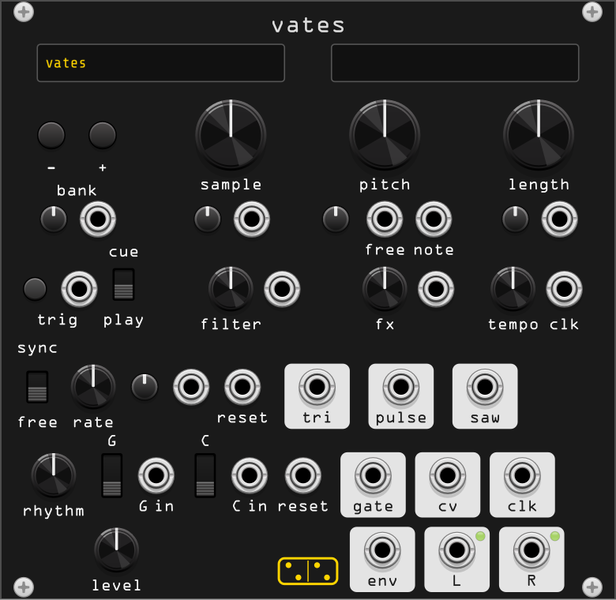
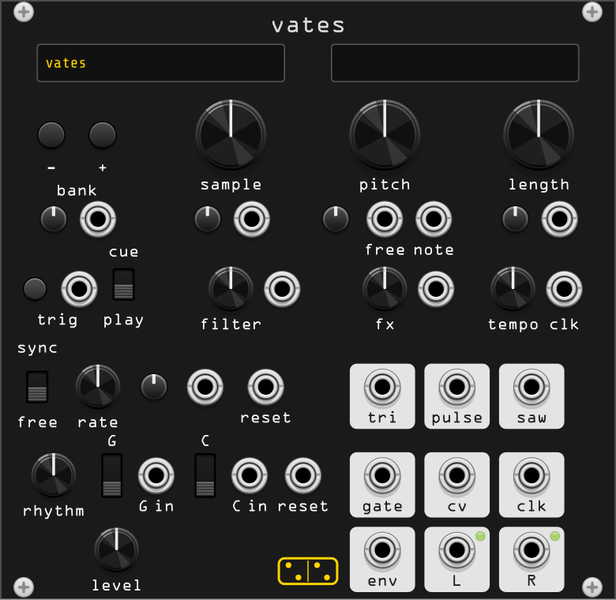
style(vates): the three output triplets share one grid
tri/pulse/saw, gate/cv/clk and env/L/R now sit on the same three columns, so
the badges read as one block of outputs on the right rather than three rows
that happen to hold jacks. The LFO controls spread to meet them, matching the
pattern row above.

Changed region(s): [[0.1234, 0.6, 0.9253, 0.72], [0.5244, 0.75, 0.9253, 0.87], [0.1234, 0.69, 0.1851, 0.72]]

diff --git a/src/vates.cpp b/src/vates.cpp
@@ -1267,14 +1267,14 @@ struct VatesWidget : ModuleWidget {
 // @elem LABEL_ENV label 0.0 label "env" 0.0 82.00 125.50
 // @elem LABEL_SYNC label 0.0 label "sync" 0.0 8.00 75.50
 // @elem LABEL_FREERUN label 0.0 label "free" 0.0 8.00 91.50
-// @elem LABEL_RATE label 0.0 label "rate" 0.0 20.00 91.50
-// @elem LABEL_LFO_RESET label 0.0 label "reset" 0.0 52.00 90.50
-// @elem BOX_SAW panel_box 7.0 box "" 0.0 104.00 85.00
-// @elem BOX_TRI panel_box 7.0 box "" 0.0 68.00 85.00
-// @elem LABEL_TRI label 0.0 label "tri" 0.0 68.00 90.50
-// @elem BOX_PULSE panel_box 7.0 box "" 0.0 86.00 85.00
-// @elem LABEL_PULSE label 0.0 label "pulse" 0.0 86.00 90.50
-// @elem LABEL_SAW label 0.0 label "saw" 0.0 104.00 90.50
+// @elem LABEL_RATE label 0.0 label "rate" 0.0 21.00 91.50
+// @elem LABEL_LFO_RESET label 0.0 label "reset" 0.0 57.00 90.50
+// @elem BOX_SAW panel_box 7.0 box "" 0.0 114.00 85.00
+// @elem BOX_TRI panel_box 7.0 box "" 0.0 82.00 85.00
+// @elem LABEL_TRI label 0.0 label "tri" 0.0 82.00 90.50
+// @elem BOX_PULSE panel_box 7.0 box "" 0.0 98.00 85.00
+// @elem LABEL_PULSE label 0.0 label "pulse" 0.0 98.00 90.50
+// @elem LABEL_SAW label 0.0 label "saw" 0.0 114.00 90.50
 // @elem LABEL_TEMPO label 0.0 label "tempo" 0.0 110.00 70.50
 // @elem LABEL_CLK label 0.0 label "clk" 0.0 121.00 70.50
 // @elem LABEL_GSW label 0.0 label "G" 0.0 24.00 95.50
@@ -1283,12 +1283,12 @@ struct VatesWidget : ModuleWidget {
 // @elem LABEL_G label 0.0 label "G in" 0.0 33.50 109.50
 // @elem LABEL_C label 0.0 label "C in" 0.0 53.50 109.50
 // @elem LABEL_PAT_RESET label 0.0 label "reset" 0.0 65.00 109.50
-// @elem BOX_GATE panel_box 7.0 box "" 0.0 80.00 104.00
-// @elem LABEL_GATE label 0.0 label "gate" 0.0 80.00 109.50
-// @elem BOX_CV panel_box 7.0 box "" 0.0 96.00 104.00
-// @elem LABEL_CV label 0.0 label "cv" 0.0 96.00 109.50
-// @elem BOX_CLK_OUT panel_box 7.0 box "" 0.0 112.00 104.00
-// @elem LABEL_CLK_OUT label 0.0 label "clk" 0.0 112.00 109.50
+// @elem BOX_GATE panel_box 7.0 box "" 0.0 82.00 104.00
+// @elem LABEL_GATE label 0.0 label "gate" 0.0 82.00 109.50
+// @elem BOX_CV panel_box 7.0 box "" 0.0 98.00 104.00
+// @elem LABEL_CV label 0.0 label "cv" 0.0 98.00 109.50
+// @elem BOX_CLK_OUT panel_box 7.0 box "" 0.0 114.00 104.00
+// @elem LABEL_CLK_OUT label 0.0 label "clk" 0.0 114.00 109.50
 // @elem LABEL_LEVEL label 0.0 label "level" 0.0 25.00 126.50
 // @elem BOX_LEFT panel_box 7.0 box "" 0.0 98.00 120.00
 // @elem LABEL_LEFT label 0.0 label "L" 0.0 98.00 125.50
@@ -1323,13 +1323,13 @@ struct VatesWidget : ModuleWidget {
         addInput(createInputCentered<PJ301MPort>(mm2px(Vec(93.50f, 62.00f)), module, Vates::FX_INPUT));
         addOutput(createOutputCentered<PJ301MPort>(mm2px(Vec(82.00f, 118.00f)), module, Vates::ENV_OUTPUT));
         addParam(createParamCentered<CKSS>(mm2px(Vec(8.00f, 83.00f)), module, Vates::SYNC_PARAM));
-        addParam(createParamCentered<RoundBlackKnob>(mm2px(Vec(20.00f, 83.00f)), module, Vates::RATE_PARAM));
-        addParam(createParamCentered<Trimpot>(mm2px(Vec(31.00f, 83.00f)), module, Vates::LFO_ATT_PARAM));
-        addInput(createInputCentered<PJ301MPort>(mm2px(Vec(41.00f, 83.00f)), module, Vates::LFO_INPUT));
-        addInput(createInputCentered<PJ301MPort>(mm2px(Vec(52.00f, 83.00f)), module, Vates::LFO_RESET_INPUT));
-        addOutput(createOutputCentered<PJ301MPort>(mm2px(Vec(68.00f, 83.00f)), module, Vates::TRI_OUTPUT));
-        addOutput(createOutputCentered<PJ301MPort>(mm2px(Vec(86.00f, 83.00f)), module, Vates::PULSE_OUTPUT));
-        addOutput(createOutputCentered<PJ301MPort>(mm2px(Vec(104.00f, 83.00f)), module, Vates::SAW_OUTPUT));
+        addParam(createParamCentered<RoundBlackKnob>(mm2px(Vec(21.00f, 83.00f)), module, Vates::RATE_PARAM));
+        addParam(createParamCentered<Trimpot>(mm2px(Vec(33.00f, 83.00f)), module, Vates::LFO_ATT_PARAM));
+        addInput(createInputCentered<PJ301MPort>(mm2px(Vec(44.00f, 83.00f)), module, Vates::LFO_INPUT));
+        addInput(createInputCentered<PJ301MPort>(mm2px(Vec(57.00f, 83.00f)), module, Vates::LFO_RESET_INPUT));
+        addOutput(createOutputCentered<PJ301MPort>(mm2px(Vec(82.00f, 83.00f)), module, Vates::TRI_OUTPUT));
+        addOutput(createOutputCentered<PJ301MPort>(mm2px(Vec(98.00f, 83.00f)), module, Vates::PULSE_OUTPUT));
+        addOutput(createOutputCentered<PJ301MPort>(mm2px(Vec(114.00f, 83.00f)), module, Vates::SAW_OUTPUT));
         addParam(createParamCentered<RoundBlackKnob>(mm2px(Vec(110.00f, 62.00f)), module, Vates::TEMPO_PARAM));
         addInput(createInputCentered<PJ301MPort>(mm2px(Vec(121.00f, 62.00f)), module, Vates::CLK_INPUT));
         addParam(createParamCentered<RoundBlackKnob>(mm2px(Vec(11.50f, 102.00f)), module, Vates::RHYTHM_PARAM));
@@ -1338,9 +1338,9 @@ struct VatesWidget : ModuleWidget {
         addParam(createParamCentered<CKSSThree>(mm2px(Vec(44.00f, 102.00f)), module, Vates::CSW_PARAM));
         addInput(createInputCentered<PJ301MPort>(mm2px(Vec(53.50f, 102.00f)), module, Vates::C_INPUT));
         addInput(createInputCentered<PJ301MPort>(mm2px(Vec(65.00f, 102.00f)), module, Vates::PAT_RESET_INPUT));
-        addOutput(createOutputCentered<PJ301MPort>(mm2px(Vec(80.00f, 102.00f)), module, Vates::GATE_OUTPUT));
-        addOutput(createOutputCentered<PJ301MPort>(mm2px(Vec(96.00f, 102.00f)), module, Vates::CV_OUTPUT));
-        addOutput(createOutputCentered<PJ301MPort>(mm2px(Vec(112.00f, 102.00f)), module, Vates::CLK_OUTPUT));
+        addOutput(createOutputCentered<PJ301MPort>(mm2px(Vec(82.00f, 102.00f)), module, Vates::GATE_OUTPUT));
+        addOutput(createOutputCentered<PJ301MPort>(mm2px(Vec(98.00f, 102.00f)), module, Vates::CV_OUTPUT));
+        addOutput(createOutputCentered<PJ301MPort>(mm2px(Vec(114.00f, 102.00f)), module, Vates::CLK_OUTPUT));
         addParam(createParamCentered<RoundBlackKnob>(mm2px(Vec(25.00f, 118.00f)), module, Vates::LEVEL_PARAM));
         addOutput(createOutputCentered<PJ301MPort>(mm2px(Vec(98.00f, 118.00f)), module, Vates::LEFT_OUTPUT));
         addOutput(createOutputCentered<PJ301MPort>(mm2px(Vec(114.00f, 118.00f)), module, Vates::RIGHT_OUTPUT));
